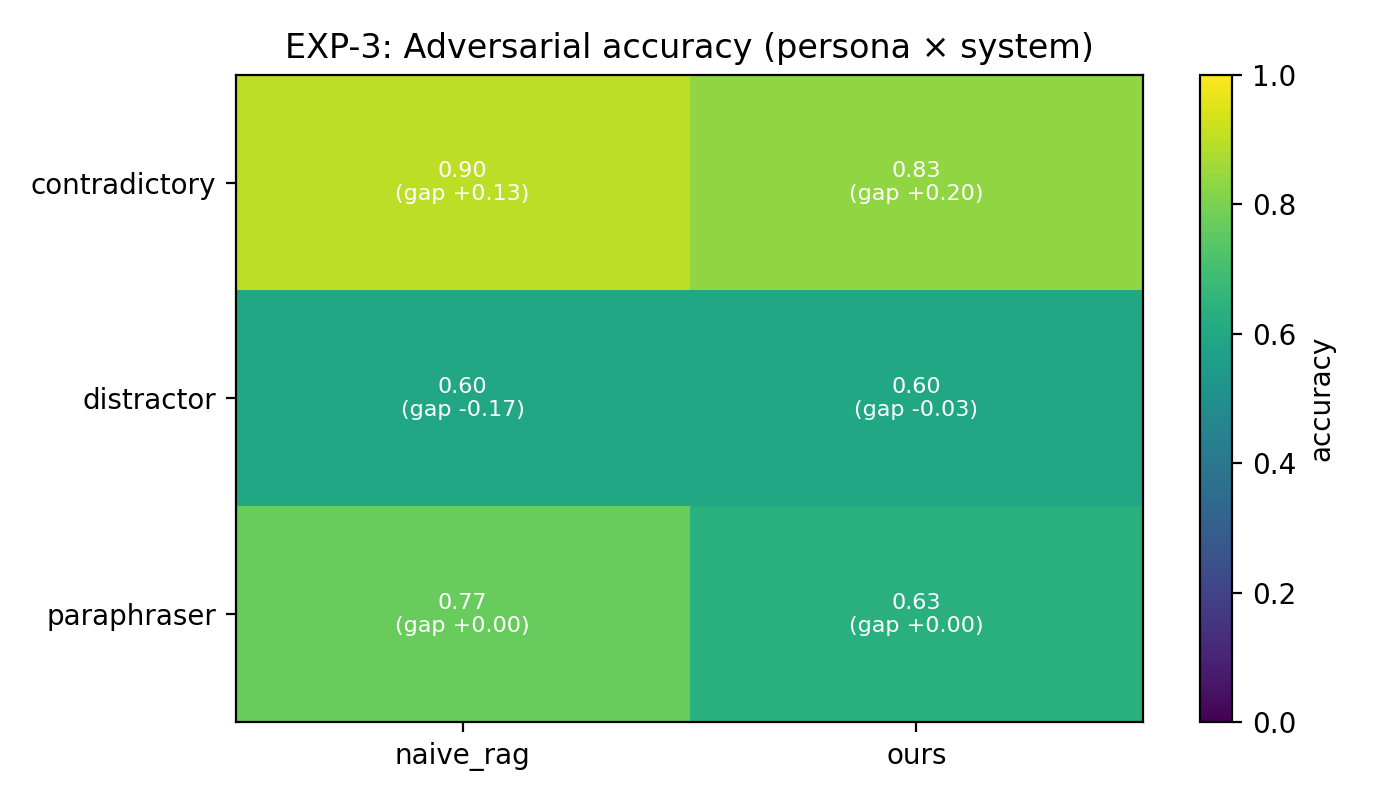
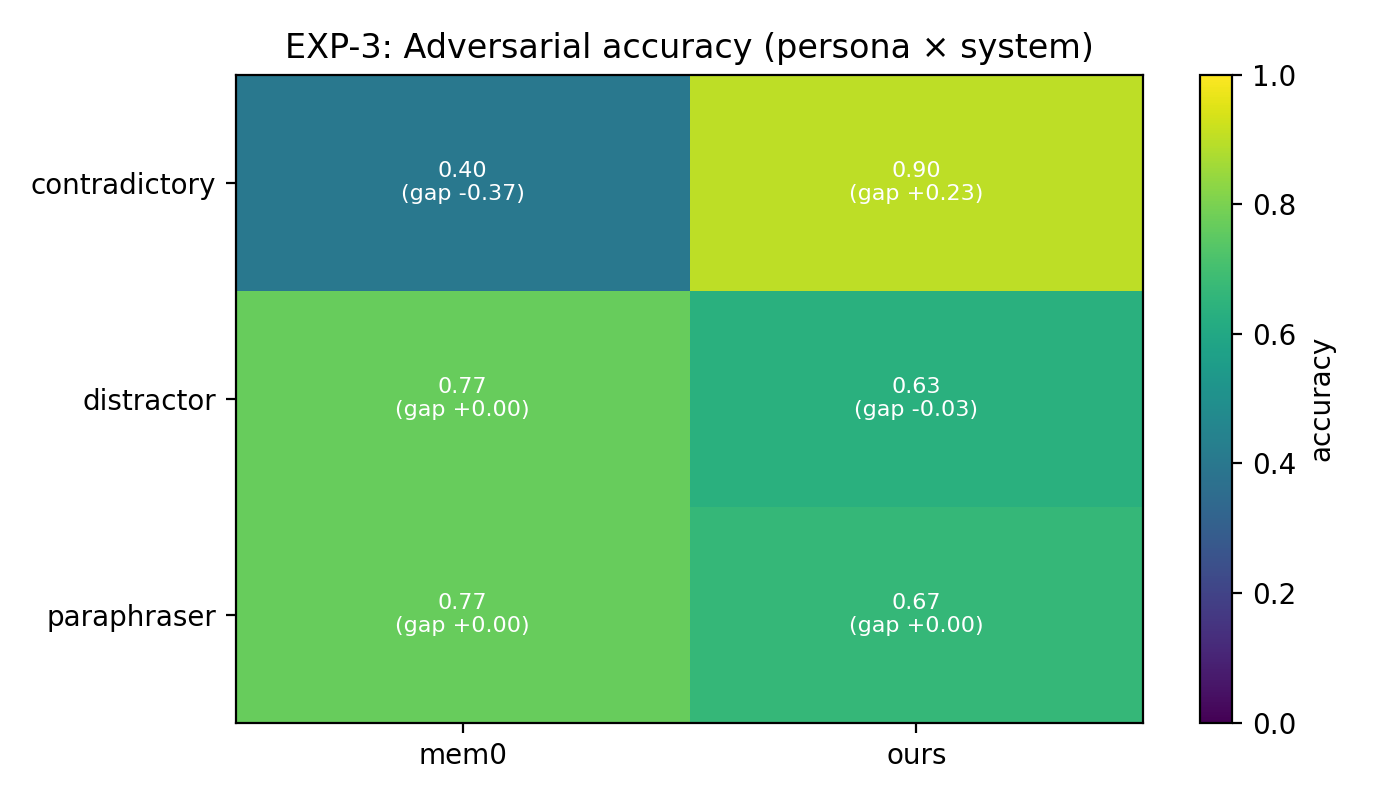
drop EXP-5 (provenance) from the headline report
EXP-5's decomposition (used-gold / lucky / distracted) only separates
systems when probes produce lucky guesses (LLM-knowable from training)
or distracted-right answers (noisy retrieval the answerer compensates
for). The 50-item synthetic Gaucho probes are constructed so the LLM
cannot answer without the planted memory, so the metric pins at 1.00
by construction for both memory systems. Deferred to LongMemEval-S
real-mode.

- REPORT.md: 4-axis -> 3-axis framing; EXP-5 subsection removed from
  results; new limitations bullet documents the deferral.
- PRESENTATION.md: slide 3 axis table; slide 9 line removed.
- EXPERIMENTS.md: EXP-5 section becomes a 'omitted, deferred' notice;
  figure table is 3 rows; suggested-run script drops eval_provenance.
- scripts/make_figures.py: fig5_provenance() commented out in main().
- Removed results/exp5_provenance.csv and figures/exp5_provenance.png.
- Driver scripts/eval_provenance.py kept for the LongMemEval run.

diff --git a/scripts/make_figures.py b/scripts/make_figures.py
@@ -197,7 +197,9 @@ def main() -> int:
     # fig2_pareto()
     fig3_adversarial()
     fig4_process()
-    fig5_provenance()
+    # EXP-5 deferred to the LongMemEval-S real-mode run (the synthetic
+    # probes pin provenance at 1.00 by construction). Re-enable with:
+    # fig5_provenance()
     return 0
 
 

diff --git a/REPORT.md b/REPORT.md
@@ -12,7 +12,7 @@ which conflates four independent questions: did the system *store* the
 right thing, *retrieve* it, *use* it, and was the *cost* worth it? We
 build a selective-memory layer (LLM-as-judge store policy + type/recency
 retrieval + recency override) on top of a UCSB academic assistant, and
-— the actual contribution — a **four-axis evaluation framework** that
+— the actual contribution — a **three-axis evaluation framework** that
 answers each question separately. We instantiate it on LongMemEval-S and
 a synthetic Gaucho probe set with four backends (recent-window, naive
 RAG, mem0, ours). Even under a conservative offline scoring proxy, the
@@ -38,7 +38,6 @@ questions, each with its own experiment, metric, and predicted pattern:
 | 1 | How much accuracy does memory add, at what cost? | Counterfactual | ΔAccuracy, Memory ROI |
 | 2 | Survives messy users? | Adversarial | Robustness gap |
 | 3 | Which stage fails? | Process forensics | Store/Retrieve/Override F1 |
-| 4 | Right answer for the right reason? | Provenance | Provenance accuracy |
 
 Together these support claims of the form *"X wins on axis Y because Z"*
 rather than *"X is 3 points better."*
@@ -81,9 +80,9 @@ are computable post-hoc.
 > **Threat to validity (stated up front).** The offline proxy measures
 > retrieval-evidence overlap, not generation quality. It is a *lower
 > bound* and is blind to ranking differences once the gold fact is in
-> the bag. Axes that hinge on generation (EXP-5, ablations) are
-> therefore flat offline; §6 explains this rather than hiding it. EXP-1,
-> EXP-3, and EXP-4 do not depend on generation and are informative even
+> the bag. The ablation axis hinges on fine ranking and is therefore
+> flat offline; §6 explains this rather than hiding it. EXP-1, EXP-3,
+> and EXP-4 do not depend on generation and are informative even
 > offline.
 
 ---
@@ -137,21 +136,6 @@ keeps the literal old+new strings, so substring match still fires) —
 precisely the kind of false positive EXP-4's override-precision (0.00
 for naive) exposes.
 
-### EXP-5 — Provenance · `figures/exp5_provenance.png`
-
-| System | n correct | Provenance acc | Lucky | Distracted |
-|---|---|---|---|---|
-| recent_window | 0 | 0.00 | 0.00 | 0.00 |
-| naive_rag | 38 | 1.00 | 0.00 | 0.00 |
-| ours | 33 | 1.00 | 0.00 | 0.00 |
-
-recent_window is correct 0 times (no memory ⇒ no lucky guesses — the
-control validates the metric). Provenance is 1.00 for both memory
-systems *by construction of the offline proxy* (it only scores correct
-when the gold fact is in the retrieved set). The real LLM judge is
-required to observe lucky/distracted answers; the harness and rubric
-(gpt-4o provenance judge) are in place.
-
 ### LongMemEval-S smoke (`results/smoke.csv`)
 
 Pipeline validated on the **real 500-record dataset**, stratified across
@@ -201,6 +185,18 @@ accuracy.
   haystacks larger than K. On the synthetic probes (~4 memories/probe)
   K≥8 is unbounded by construction; we defer EXP-2 to the LongMemEval-S
   real-mode run. The `eval_budget_sweep.py` driver remains in-tree.
+- **EXP-5 (Memory provenance) is omitted from this draft.** The
+  provenance decomposition (used-gold / lucky / distracted) only
+  separates systems when the probe set produces lucky guesses
+  (LLM-knowable from training) or distracted-right answers (noisy
+  retrieval that the answerer compensates for). Our synthetic Gaucho
+  probes are constructed so the LLM cannot answer without the planted
+  memory and the haystack is too small for distracted-right cases, so
+  every correct answer trivially traces to the gold memory
+  (provenance = 1.00 by construction). Deferred to the LongMemEval-S
+  real-mode run, where temporal-reasoning and common-knowledge
+  categories produce real lucky/distracted cases. The
+  `eval_provenance.py` driver and gpt-4o rubric remain in-tree.
 - **Judge validation.** Validate gpt-4o-mini vs gpt-4o on ~50 samples
   before the full judging pass (plan risk table).
 
@@ -214,5 +210,5 @@ Offline (this draft): append `--offline` to every driver, then
 `--offline`. Tests: `python -m pytest tests/ -q` → 113/113.
 
 **Figures** (`figures/`): `exp1_accuracy_and_roi.png`,
-`exp3_robustness.png`, `exp4_process_f1.png`, `exp5_provenance.png`.
-A reader who sees only these four understands the entire contribution.
+`exp3_robustness.png`, `exp4_process_f1.png`.
+A reader who sees only these three understands the entire contribution.

diff --git a/EXPERIMENTS.md b/EXPERIMENTS.md
@@ -121,15 +121,16 @@ python scripts/eval_process_metrics.py --n 50 \
 → `results/exp4_process_metrics.csv` · **Figure:** `figures/exp4_process_f1.png`
 (per-system Store-F1 / Retrieve-F1 / Override-precision bars).
 
-### EXP-5 — Memory provenance
-*When it's right, is it right for the right reasons?*
+### EXP-5 — Memory provenance (omitted from the headline report)
 
-```bash
-python scripts/eval_provenance.py --n 100 \
-    --systems recent_window,naive_rag,ours     # add --offline for reproducible no-key run
-```
-→ `results/exp5_provenance.csv` · **Figure:** `figures/exp5_provenance.png`
-(correct answers split into used-gold / lucky / distracted).
+The decomposition (used-gold / lucky / distracted) only separates
+systems when probes produce lucky guesses or distracted-right answers.
+The 50-item synthetic Gaucho probes are constructed so the LLM cannot
+answer without the planted memory, so the metric pins at 1.00 by
+construction. Deferred to LongMemEval-S real-mode where
+temporal-reasoning and common-knowledge categories produce real
+lucky/distracted cases. The driver lives at
+`scripts/eval_provenance.py`.
 
 ### Ablations (report Day-12)
 ```bash
@@ -155,7 +156,7 @@ python scripts/make_figures.py
 
 Produces the five headline PNGs (200 dpi) in `figures/`. It reads whatever CSVs
 exist in `results/` and skips experiments you haven't run yet, so it is
-safe to run at any point. **A reader who only looks at these four
+safe to run at any point. **A reader who only looks at these three
 figures should understand the entire contribution:**
 
 | Figure | Experiment | Reading |
@@ -163,7 +164,6 @@ figures should understand the entire contribution:**
 | `exp1_accuracy_and_roi.png` | EXP-1 | memory's true contribution + ROI |
 | `exp3_robustness.png` | EXP-3 | resilience to messy users |
 | `exp4_process_f1.png` | EXP-4 | which pipeline stage is the weak link |
-| `exp5_provenance.png` | EXP-5 | trustworthiness (right for right reasons) |
 
 ---
 
@@ -182,7 +182,6 @@ python scripts/download_longmemeval.py
 python scripts/eval_counterfactual.py  --n 100 --systems recent_window,naive_rag,mem0,ours
 python scripts/eval_adversarial.py     --systems ours,mem0
 python scripts/eval_process_metrics.py --n 50  --systems ours,naive_rag,recent_window
-python scripts/eval_provenance.py      --n 100 --systems recent_window,naive_rag,ours
 python scripts/eval_ablations.py       --n 50
 python scripts/eval_longmemeval.py     --n 500 --systems recent_window,naive_rag,mem0,ours
 

diff --git a/PRESENTATION.md b/PRESENTATION.md
@@ -32,14 +32,13 @@ That conflates four questions:
 
 ## Slide 3 — Contribution
 
-A **four-axis evaluation framework** — one experiment per question:
+A **three-axis evaluation framework** — one experiment per question:
 
 | Axis | Question | Metric |
 |---|---|---|
 | EXP-1 | accuracy vs cost | Memory ROI |
 | EXP-3 | messy users | Robustness gap |
 | EXP-4 | which stage fails | Store/Retrieve/Override F1 |
-| EXP-5 | right reasons | Provenance accuracy |
 
 *Lets us say "X wins on Y because Z" — not "X is 3 points better."*
 
@@ -114,7 +113,6 @@ One averaged number would have buried this.*
 - Same commands, drop `--offline`, set `OPENAI_API_KEY`
 - Generation + **gpt-4o LLM-judge** (LongMemEval protocol)
 - Surfaces ablation contributions (β·type, γ·recency, judge)
-- Surfaces EXP-5 lucky/distracted answers
 - Budget: ~12M + ~1M tokens; harness + caching already in place
 
 *Zero code change. The framework is done; the spend is the only gate.*